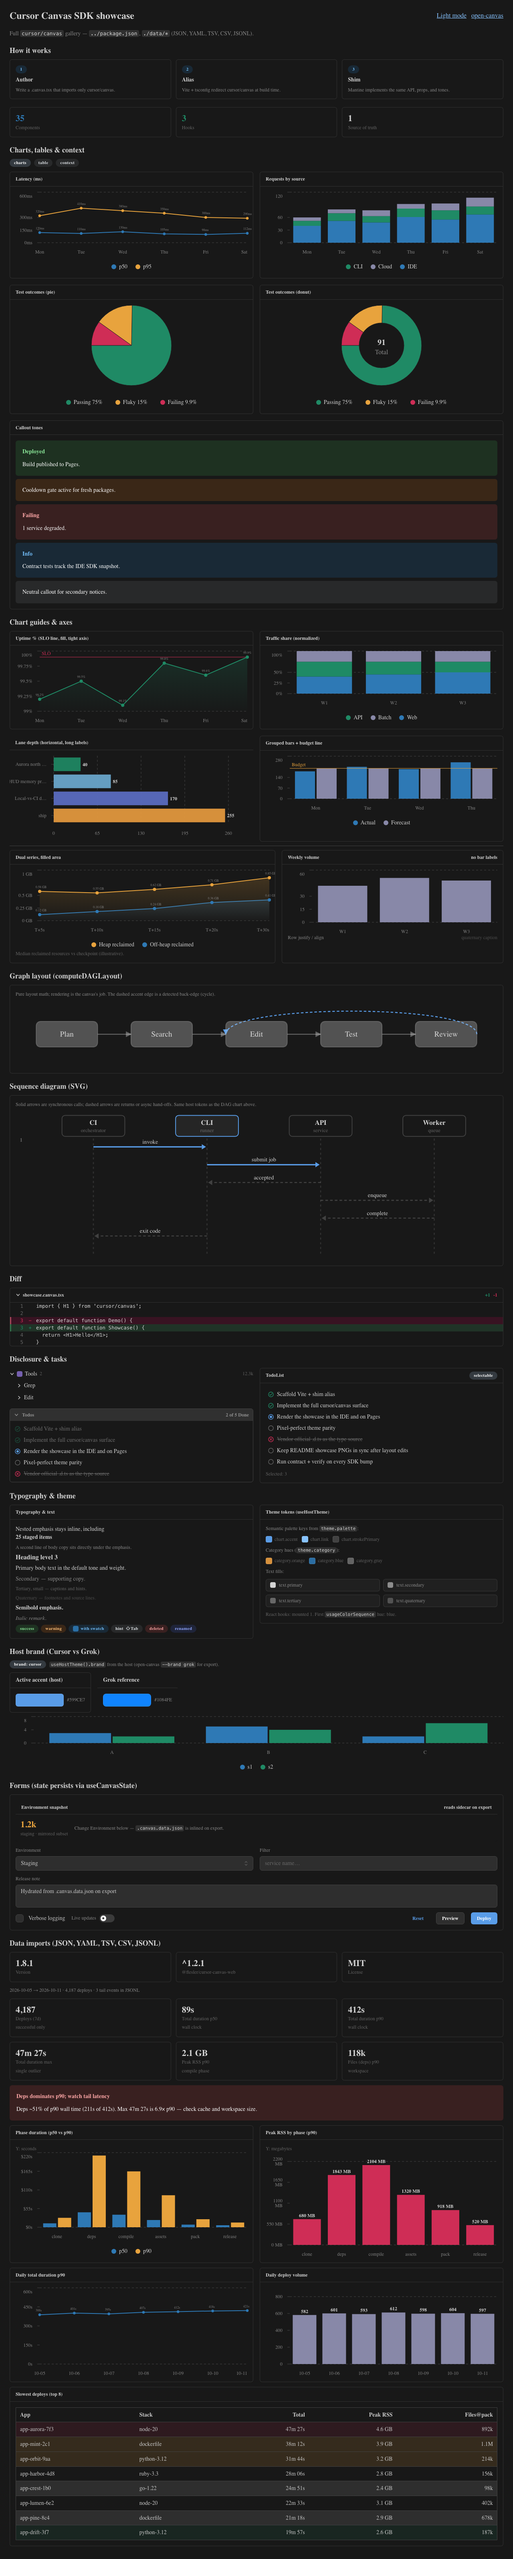
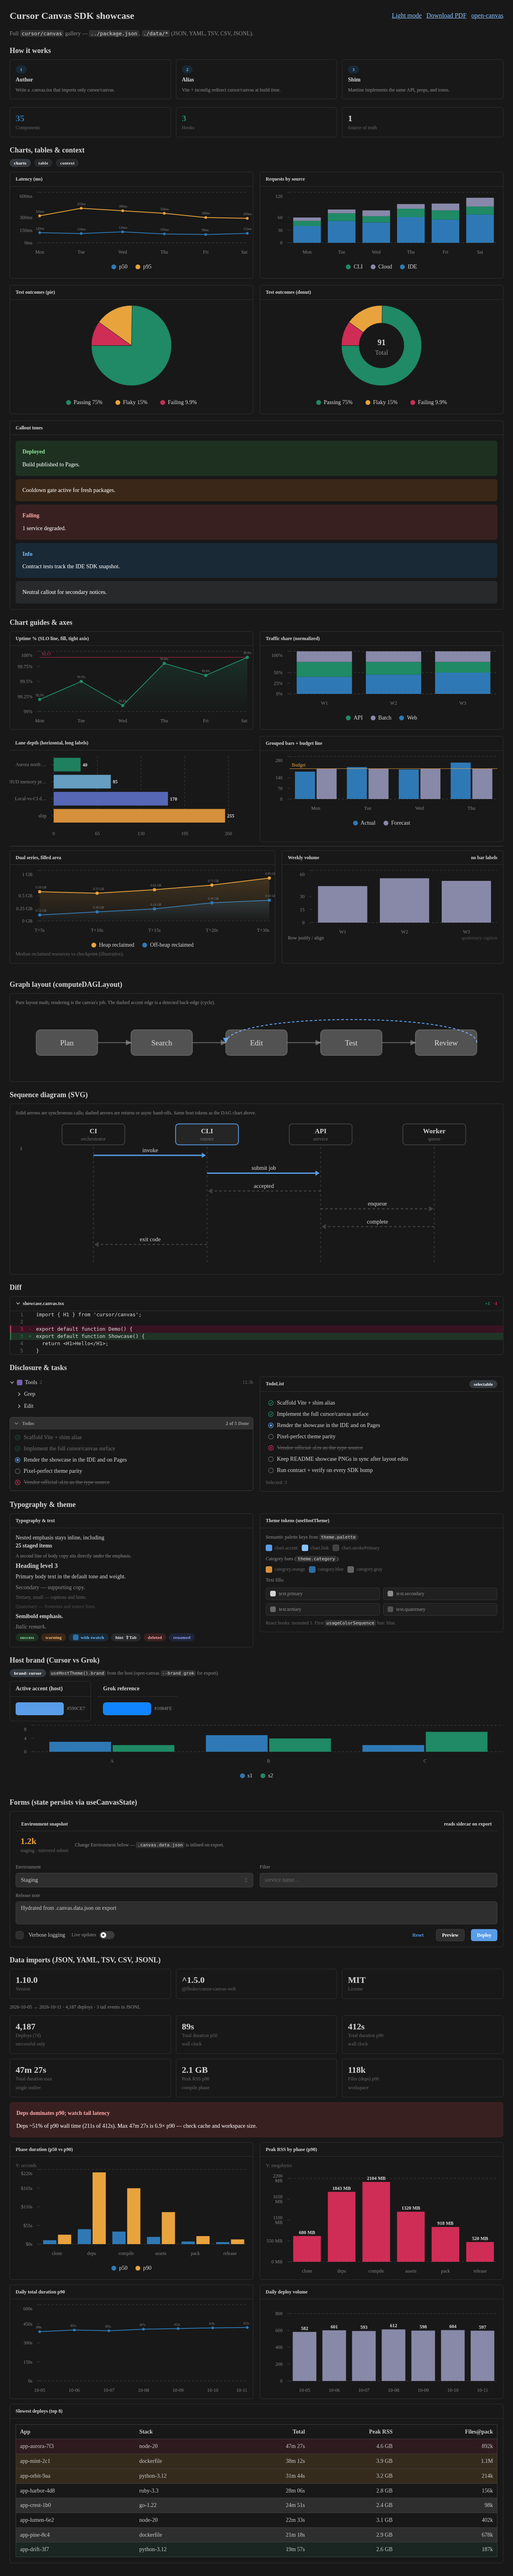
Extend showcase with PDF exports, page breaks, and export-only chrome

diff --git a/example/showcase.canvas.tsx b/example/showcase.canvas.tsx
@@ -18,18 +18,22 @@ type PhaseRssMb = {
 const repoUrl = `https://github.com/${pkg.repository.replace(/^github:/, '')}`
 const shimDep = pkg.dependencies['@flesler/cursor-canvas-web']
 
-/** GitHub Pages: dark export → `./`; light (or anything else) → `./dark.html`. */
+/** GitHub Pages: paired `index` / `dark` html + pdf in `.cache/github-pages`. */
 function ExportThemeToggleLink() {
   const { kind, text } = useHostTheme()
   const dark = kind === 'dark'
+  const link = { color: text.link }
   return (
-    <a
-      href={dark ? './' : './dark.html'}
-      target="_self"
-      style={{ color: text.link }}
-    >
-      {dark ? 'Light mode' : 'Dark mode'}
-    </a>
+    <div className="export-screen-only">
+      <Row gap={12} align="center">
+        <a href={dark ? './' : './dark.html'} target="_self" style={link}>
+          {dark ? 'Light mode' : 'Dark mode'}
+        </a>
+        <a href={dark ? './dark.pdf' : './index.pdf'} download style={link}>
+          Download PDF
+        </a>
+      </Row>
+    </div>
   )
 }
 
@@ -893,6 +897,8 @@ export default function ShowcaseCanvas() {
         </Grid>
       </Section>
 
+      <div aria-hidden style={{ breakBefore: 'page' }} />
+
       {/* Graph ---------------------------------------------------------- */}
       <Section title="Graph layout (computeDAGLayout)">
         <Card>
@@ -1201,6 +1207,8 @@ export default function ShowcaseCanvas() {
           />
         </Stack>
       </Section>
+
+      <div aria-hidden style={{ breakBefore: 'page' }} />
 
       {/* Forms ---------------------------------------------------------- */}
       <Section title="Forms (state persists via useCanvasState)">
